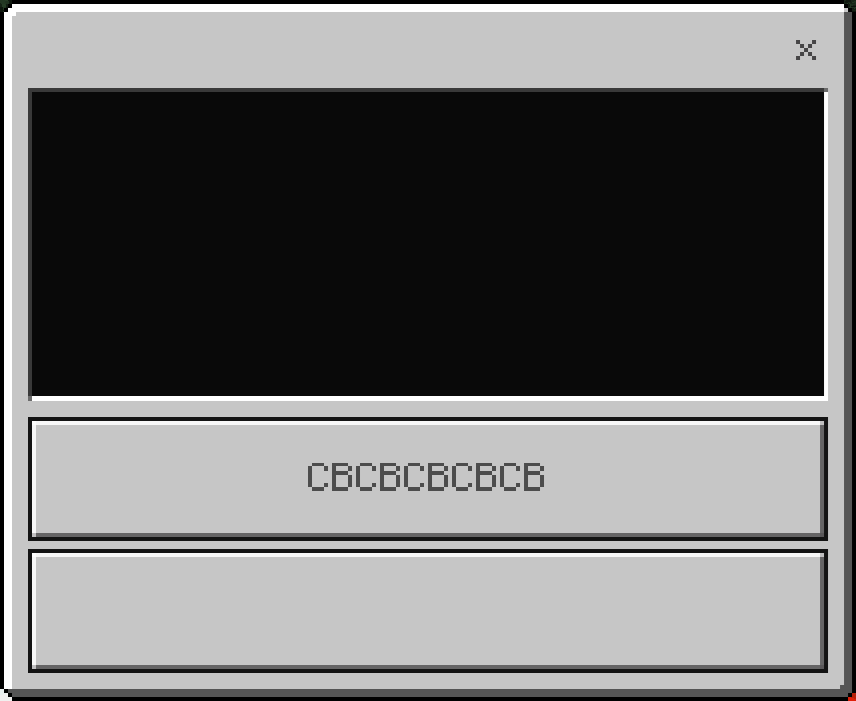
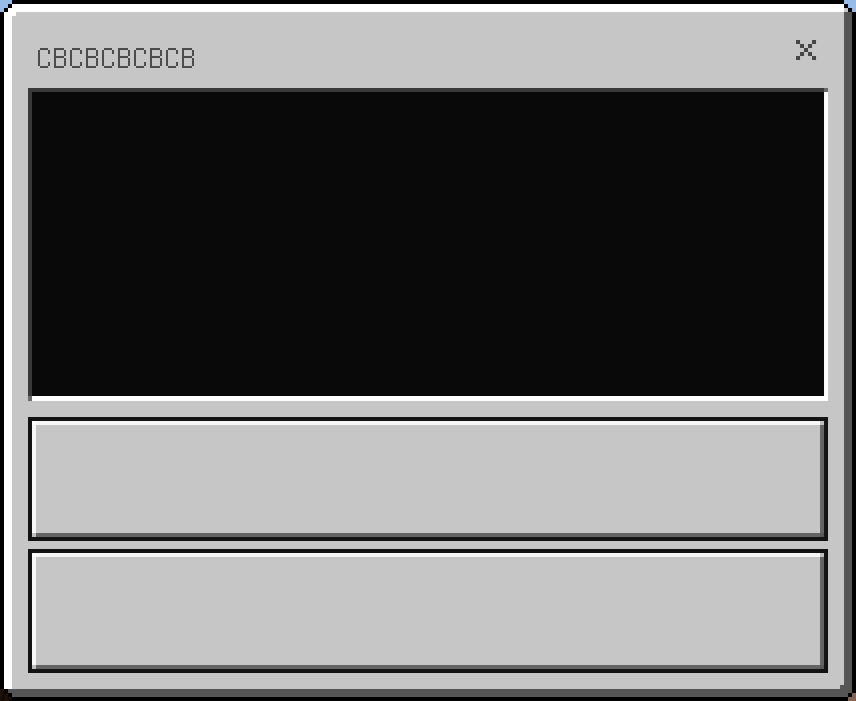
[Docs] Edit popup form: Fix the images and commands of `title` sub command

diff --git a/additional/documents/commands/popup_form.md b/additional/documents/commands/popup_form.md
@@ -164,7 +164,7 @@ editpopupform <formName: string> title <titleCode: string>
 ## 示例
 ```mcfunction
 # 将信息表单 flowers 的标题文本设置为 5 个 CB
-editpopupform flowers button1 "return 'CB'*5"
+editpopupform flowers title "return 'CB'*5"
 ```
 
 
